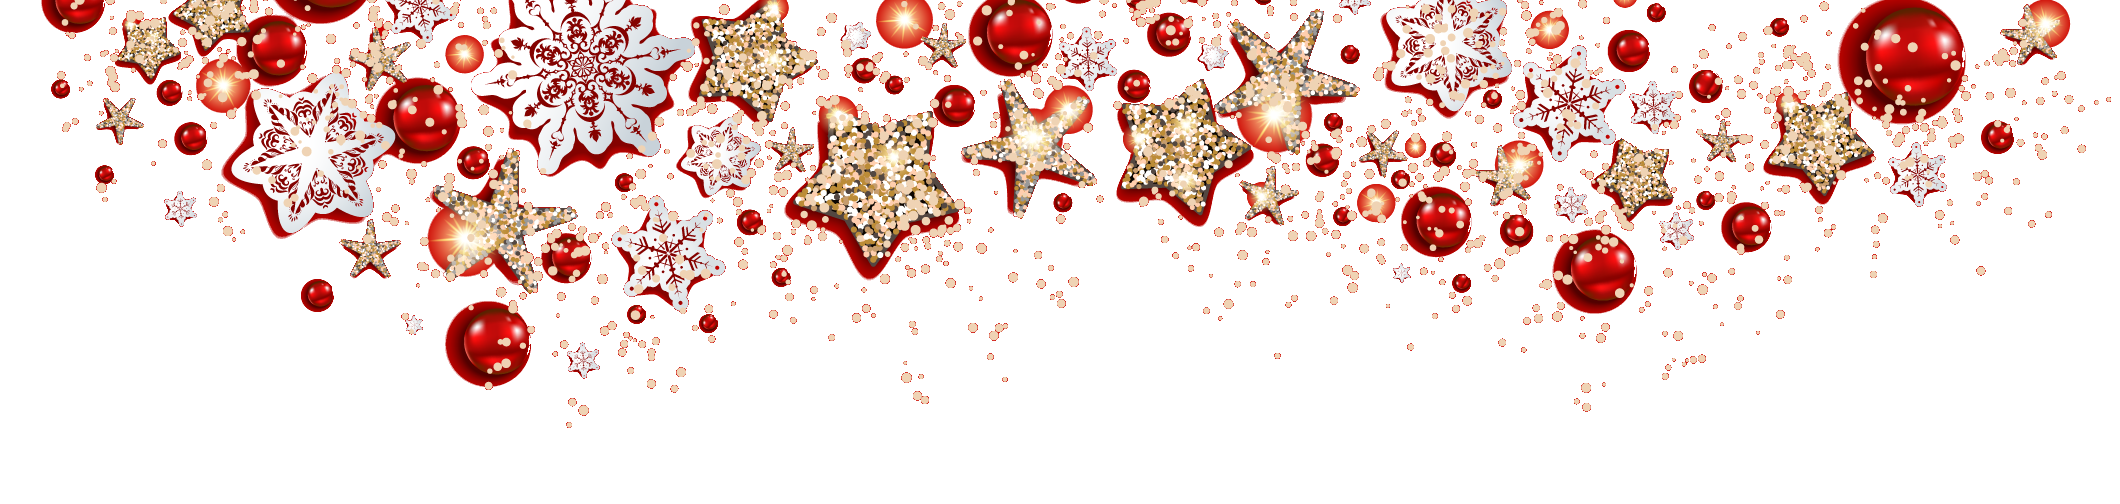
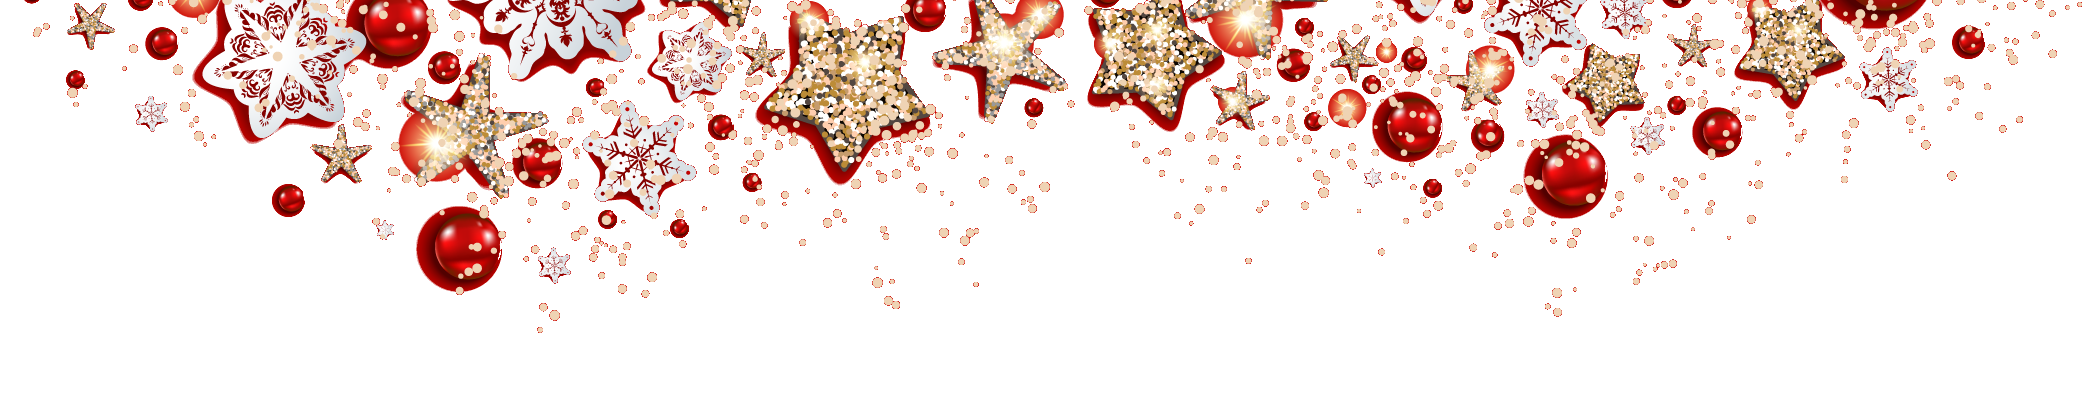
font resizing and mobile decor

diff --git a/index.html b/index.html
@@ -11,6 +11,7 @@
 body {
 	background: radial-gradient(closest-corner, rgba(204, 0, 0, 1.0), rgba(102, 0, 0, 1.0));
 	font-family: 'Amiko';font-size: 22px;
+	padding:0
 }
 
 #holiday_border > img{position:fixed; top: 0; z-index: -1; width:100%;}
@@ -18,9 +19,9 @@ body {
 
   h1 { 
     display: block;
-    font-size: 2rem;
+    font-size: 2.5rem;
     margin: 1.0em 0em;
-    font-weight: bolder;
+    font-weight: bold;
 }
 h2 {
     display: block;
@@ -37,7 +38,7 @@ a:link {
 
 
 .Mac_title{
-	padding: 8% 0% 0% 0%;
+	padding: 10% 0% 0% 0%;
 }
 
 table.welcome {
@@ -166,10 +167,10 @@ body {
 	background: radial-gradient(closest-corner, rgba(204, 0, 0, 1.0), rgba(102, 0, 0, 1.0));
 	font-family: 'Amiko';font-size: 22px;
 }
-#holiday_border > img{position:fixed; top: 0;transform: translateX(-50%); z-index: -1; width:200%; overflow:hidden;}
+#holiday_border > img{position:fixed; top: 0; width:150%; z-index: -1; transform: translateX(-25%);overflow:hidden;}
   h1 { 
     display: block;
-    font-size: 2.0rem;
+    font-size: 2.4rem;
     margin: 1.0em 0em;
     font-weight: bolder;
 }
@@ -320,7 +321,7 @@ table.welcome tfoot .links a{
 <img src="holiday-header-image.png" alt="Holiday header image" align="middle">
 </div>
 <div class="Mac_title">
-<center><h1><p class= "uppercase">Macaron<br>Desserts</h1></center>
+<center><h1><p class= "uppercase">Macaron Desserts</h1></center>
 </div>
 
 <div>
